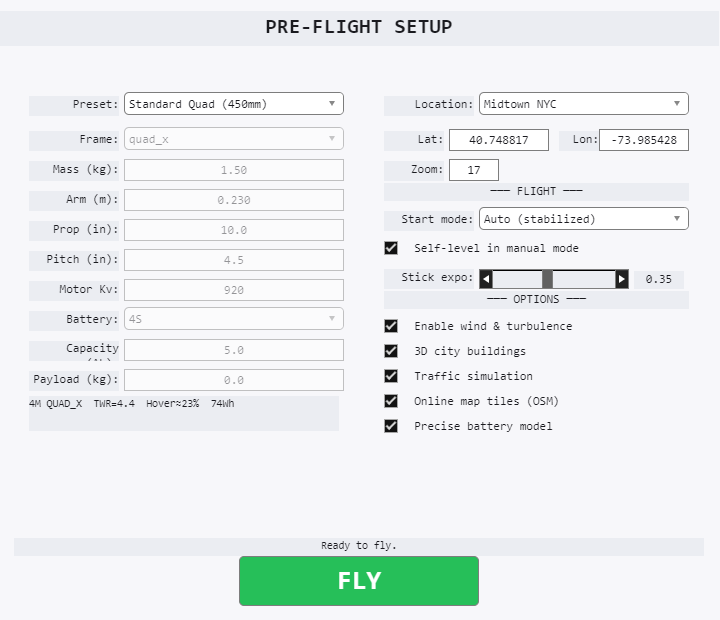
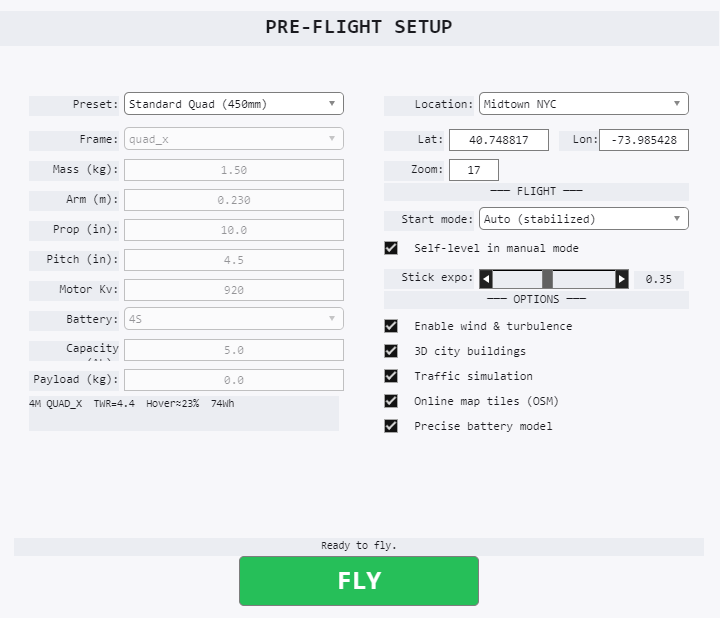
Bump figure resolutions to 300 DPI, autocrop launcher, tighten LaTeX float layout (flushbottom)

diff --git a/capture_visuals.m b/capture_visuals.m
@@ -85,11 +85,31 @@ function capture_visuals()
                 fprintf('  [warn] launcher light-theme recolor failed: %s\n', ME_theme.message);
             end
             try
+                % Capture launcher at native size (uipanels use absolute
+                % pixel positions, so resizing the window leaves white
+                % margins). Auto-crop trailing white margins after
+                % capture so the PNG is tight to the UI content.
+                drawnow; pause(0.4); drawnow;
                 frame = getframe(fh);
-                imwrite(frame.cdata, fullfile(out_dir,'fig14_launcher_ui.png'));
+                img = frame.cdata;
+                % Auto-crop white/near-white border rows and columns.
+                bg_mask = all(img > 240, 3);
+                row_blank = all(bg_mask, 2);
+                col_blank = all(bg_mask, 1);
+                r_keep = find(~row_blank);
+                c_keep = find(~col_blank);
+                if ~isempty(r_keep) && ~isempty(c_keep)
+                    pad = 12;
+                    r1 = max(1, r_keep(1) - pad);
+                    r2 = min(size(img,1), r_keep(end) + pad);
+                    c1 = max(1, c_keep(1) - pad);
+                    c2 = min(size(img,2), c_keep(end) + pad);
+                    img = img(r1:r2, c1:c2, :);
+                end
+                imwrite(img, fullfile(out_dir,'fig14_launcher_ui.png'));
             catch
                 exportgraphics(fh, fullfile(out_dir,'fig14_launcher_ui.png'), ...
-                    'Resolution', 200);
+                    'Resolution', 300, 'BackgroundColor','white');
             end
             fprintf('  wrote fig14_launcher_ui.png\n');
             delete(fh);
@@ -152,7 +172,7 @@ function capture_visuals()
     title(tl,'3-D Rigid-Body Renders of the Five Built-in Airframe Presets', ...
           'FontWeight','bold','Color','k','FontSize',16);
     exportgraphics(fh, fullfile(out_dir,'fig15_drone_3d_models.png'), ...
-        'Resolution', 240, 'BackgroundColor','white');
+        'Resolution', 300, 'BackgroundColor','white');
     fprintf('  wrote fig15_drone_3d_models.png\n');
     close(fh);
 
@@ -236,7 +256,7 @@ function capture_visuals()
     title(ax_info,'Telemetry Overlay','Color','k','FontWeight','bold');
     drawnow;
     exportgraphics(fh, fullfile(out_dir,'fig16_anim_3d_inflight.png'), ...
-        'Resolution', 220, 'BackgroundColor','white');
+        'Resolution', 300, 'BackgroundColor','white');
     fprintf('  wrote fig16_anim_3d_inflight.png\n');
     close(fh);
 
@@ -297,7 +317,7 @@ function cesium_placeholder(out_dir)
          'Real Earth terrain (Cesium Ion), live drone pose @ 25 Hz, ECEF transform, attitude quaternion.'], ...
         'FontName','Consolas','Color',[0.15 0.15 0.15],'FontSize',10);
     xlim(ax,[0 1]); ylim(ax,[0 1]);
-    exportgraphics(fh, target, 'Resolution', 220, 'BackgroundColor','white');
+    exportgraphics(fh, target, 'Resolution', 300, 'BackgroundColor','white');
     fprintf('  wrote fig17_cesium_globe.png  (synthetic placeholder)\n');
     close(fh);
 end
@@ -405,7 +425,7 @@ function pipeline_diagram(out_dir)
 
     drawnow;
     exportgraphics(fh, fullfile(out_dir,'fig18_pipeline_overview.png'), ...
-        'Resolution', 220, 'BackgroundColor','white');
+        'Resolution', 300, 'BackgroundColor','white');
     fprintf('  wrote fig18_pipeline_overview.png\n');
     close(fh);
 end

diff --git a/paper_main.tex b/paper_main.tex
@@ -24,14 +24,19 @@
 % LaTeX to emit large blank pages. Figures are instead allowed to
 % float naturally with [!htbp] and a single \FloatBarrier is placed
 % just before the bibliography.
-\renewcommand{\topfraction}{0.95}
-\renewcommand{\bottomfraction}{0.92}
-\renewcommand{\textfraction}{0.05}
-\renewcommand{\floatpagefraction}{0.65}
+\renewcommand{\topfraction}{0.97}
+\renewcommand{\bottomfraction}{0.95}
+\renewcommand{\textfraction}{0.04}
+\renewcommand{\floatpagefraction}{0.85}
+\renewcommand{\dbltopfraction}{0.97}
+\renewcommand{\dblfloatpagefraction}{0.85}
 \setcounter{topnumber}{4}
 \setcounter{bottomnumber}{4}
 \setcounter{totalnumber}{8}
-\raggedbottom
+\setcounter{dbltopnumber}{4}
+% Use \flushbottom so LaTeX vertically justifies pages, eliminating
+% the trailing blank space at the bottom of figure-heavy pages.
+\flushbottom
 
 \begin{document}
 